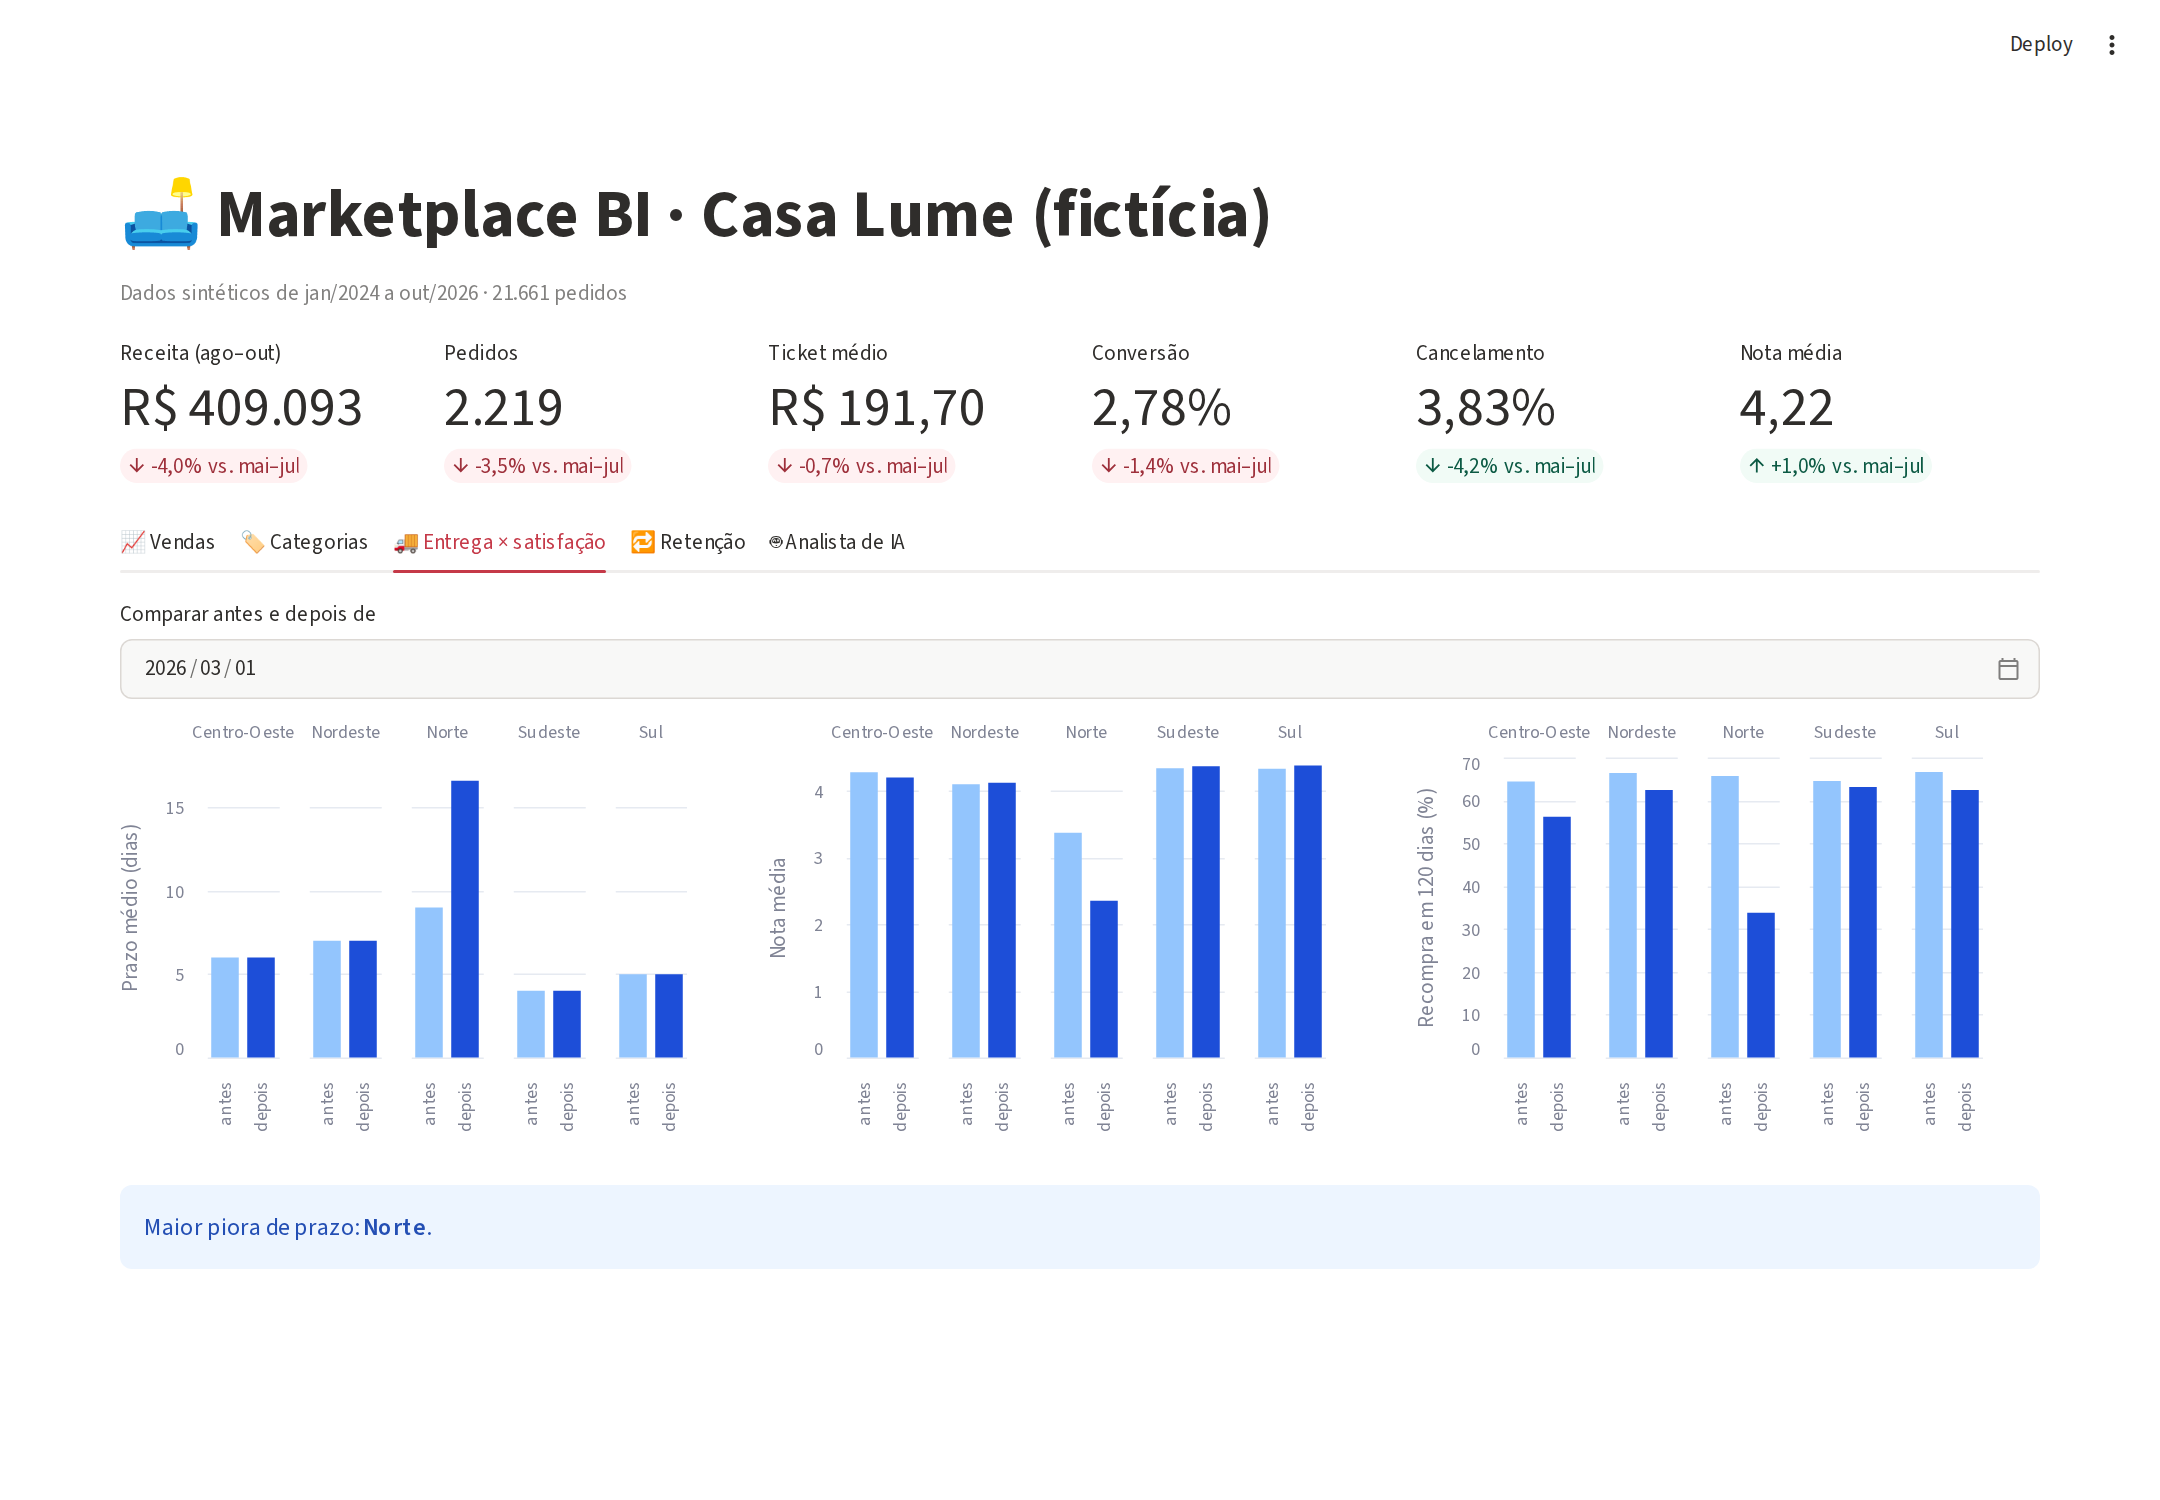
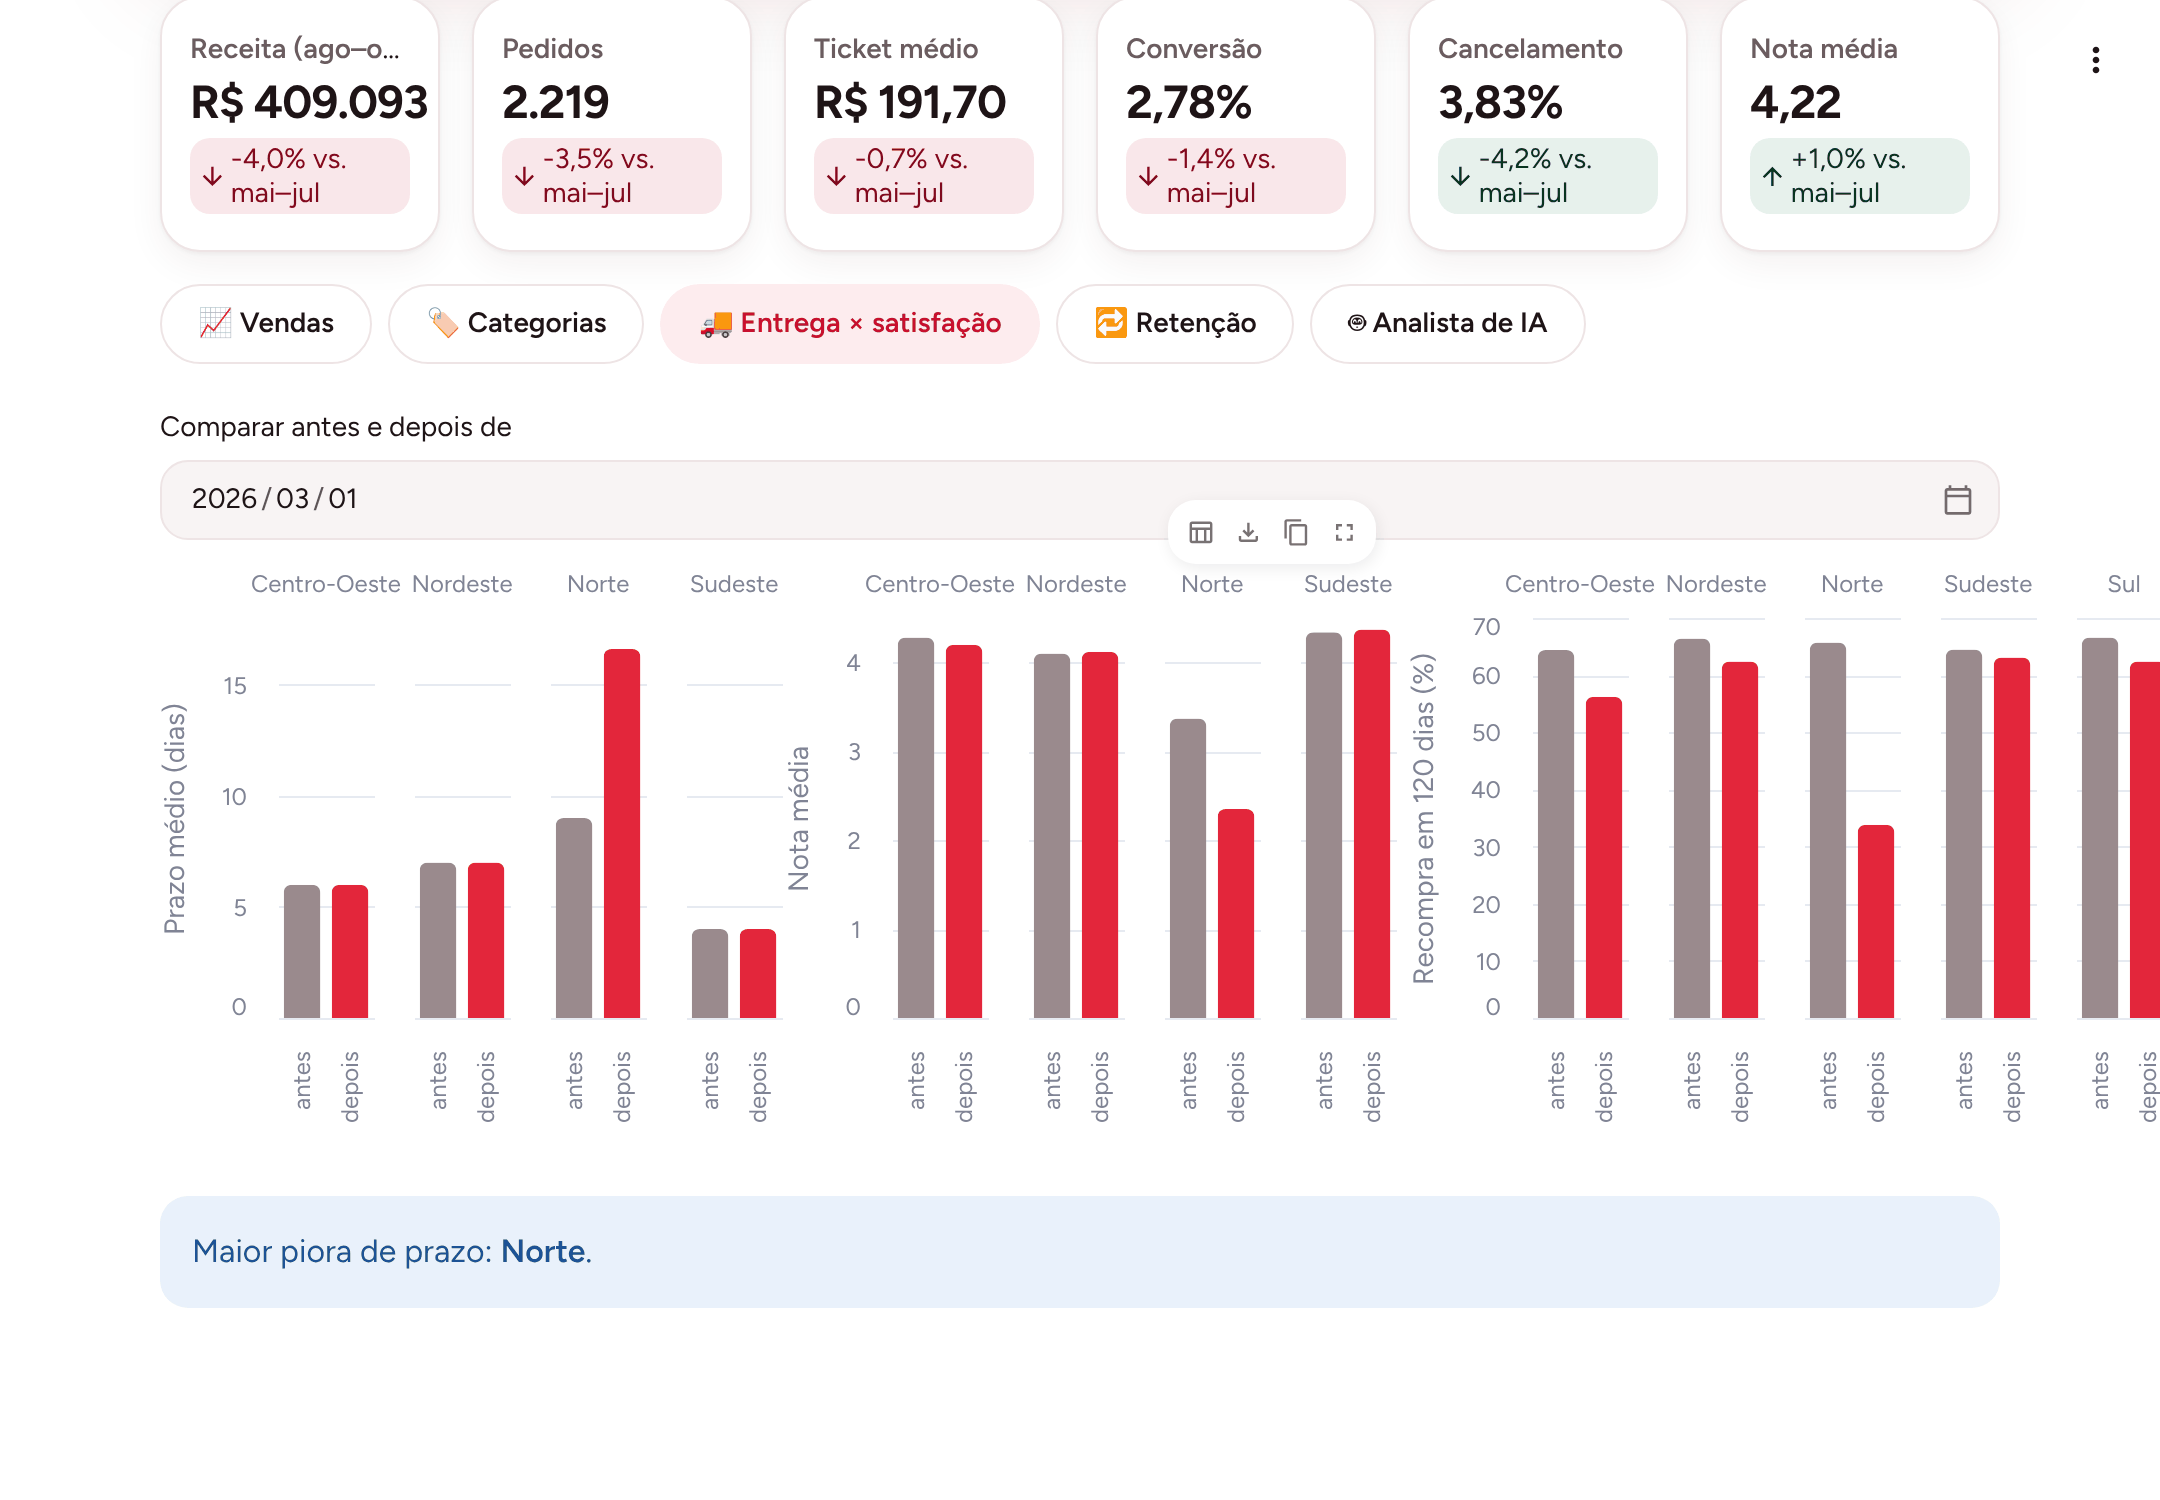
Dashboard com a identidade visual do portfólio
- .streamlit/config.toml: tema claro e escuro (vermelho #E3263B, Figtree e Bricolage Grotesque) e paletas de gráfico validadas para daltonismo
- app/tema.py: cabeçalho, cards de KPI, abas em pílula, selos de status com ícone e cores dos gráficos pela paleta
- capturas do README refeitas; streamlit>=1.51 (seções [theme.light] e [theme.dark])

Claude-Session: https://claude.ai/code/session_01WR8CaPDQRav6xXD6FyLt9e

diff --git a/app/tema.py b/app/tema.py
@@ -1,0 +1,142 @@
+"""Identidade visual compartilhada pelos dashboards: a mesma do portfólio (henriquecm02.github.io).
+
+Cores, fontes e raios ficam em `.streamlit/config.toml` (modo claro e escuro). Este módulo só acrescenta o que o tema
+do Streamlit não cobre: o cabeçalho, os cards de KPI, as abas em pílula e cores para traços com cor explícita.
+Copiado de forma idêntica em cada repositório, como o agentcore.py.
+"""
+from __future__ import annotations
+
+import html
+
+import streamlit as st
+
+# Mesma ordem das paletas do config.toml (validadas para daltonismo). Cor segue a entidade, nunca a posição.
+PALETA = {"claro": ["#E3263B", "#2a78d6", "#eda100", "#1baf7a", "#6250d6"],
+          "escuro": ["#E8455A", "#3987e5", "#c98500", "#199e70", "#9085e9"]}
+NEUTRO = {"claro": "#9A8A8D", "escuro": "#8C7E80"}  # série de referência: histórico, linha de base
+# Escala sequencial (magnitude): um só tom, do claro ao escuro (no modo escuro, do escuro ao claro).
+SEQUENCIAL = {"claro": ["#FDECEE", "#F6B3BC", "#EC6A7B", "#E3263B", "#B3132A", "#7A0A1B"],
+              "escuro": ["#3A1218", "#7A0A1B", "#B3132A", "#E3263B", "#EC6A7B", "#F6B3BC"]}
+STATUS = {"ok": ("#157347", "✅"), "atencao": ("#8A5200", "⚠"), "critico": ("#C8102E", "⛔")}
+
+
+def modo() -> str:
+    try:
+        return "escuro" if st.context.theme.type == "dark" else "claro"
+    except Exception:  # noqa: BLE001 - fora de uma sessão (testes, scripts) não há tema
+        return "claro"
+
+
+def cor(i: int) -> str:
+    """Cor categórica do slot i (0 = vermelho da marca)."""
+    return PALETA[modo()][i]
+
+
+def cores(n: int) -> list[str]:
+    """As n primeiras cores categóricas, na ordem fixa. Mais de 5 séries: agrupar em "Outros" ou separar."""
+    if n > len(PALETA["claro"]):
+        raise ValueError("Mais de 5 séries: agrupe em 'Outros' ou use pequenos múltiplos.")
+    return PALETA[modo()][:n]
+
+
+def sequencial() -> list[str]:
+    return SEQUENCIAL[modo()]
+
+
+def neutro() -> str:
+    return NEUTRO[modo()]
+
+
+def texto_secundario() -> str:
+    """Cor de rótulos de valor dentro de gráficos: texto, nunca a cor da série."""
+    return "#B9ACAE" if modo() == "escuro" else "#6B5C5F"
+
+
+def rgba(hex_: str, alpha: float) -> str:
+    h = hex_.lstrip("#")
+    return f"rgba({int(h[0:2], 16)},{int(h[2:4], 16)},{int(h[4:6], 16)},{alpha})"
+
+
+def selo(nivel: str, texto: str) -> str:
+    """Selo de status em HTML: sempre ícone + texto, nunca só a cor."""
+    c, icone = STATUS[nivel]
+    return (f'<span class="hc-selo" style="--c:{c}">{icone} {html.escape(texto)}</span>')
+
+
+_CSS = """
+<style>
+.block-container, [data-testid="stMainBlockContainer"] { padding-top: 4.2rem; max-width: 1280px; }
+[data-testid="stHeader"] { background: transparent; }
+h1, h2, h3 { letter-spacing: -0.01em; }
+.hc-hero { position: relative; overflow: hidden; border-radius: 28px; padding: 30px 34px 28px;
+  margin: 0 0 18px;
+  color: #fff; background: radial-gradient(120% 140% at 100% 0%, #F0566A 0%, rgba(240,86,106,0) 55%),
+  linear-gradient(135deg, #E3263B 0%, #B3132A 62%, #7A0A1B 100%);
+  box-shadow: 0 20px 60px rgba(122,10,27,.22); }
+.hc-hero::after { content: ""; position: absolute; right: -60px; top: -60px; width: 260px; height: 260px;
+  border-radius: 50%;
+  border: 38px solid rgba(255,255,255,.07); }
+.hc-hero .k { font: 700 12px/1 var(--hc-mono, "JetBrains Mono", monospace); letter-spacing: .08em;
+  text-transform: uppercase;
+  opacity: .85; margin-bottom: 10px; }
+.hc-hero h1 { color: #fff !important; font-size: clamp(1.7rem, 3.2vw, 2.5rem); line-height: 1.1;
+  margin: 0 0 10px; padding: 0; }
+.hc-hero p { color: rgba(255,255,255,.9); max-width: 780px; margin: 0; font-size: 1rem; line-height: 1.55; }
+.hc-hero .chips { display: flex; flex-wrap: wrap; gap: 8px; margin-top: 16px; }
+.hc-hero .chips span { background: rgba(255,255,255,.14); border: 1px solid rgba(255,255,255,.22);
+  border-radius: 999px;
+  padding: 5px 12px; font-size: .82rem; font-weight: 600; }
+[data-testid="stMetric"] { background: var(--hc-surface); border: 1px solid var(--hc-line);
+  border-radius: 20px;
+  padding: 16px 18px; min-height: 118px;
+  box-shadow: 0 1px 2px rgba(60,10,20,.05), 0 6px 18px rgba(60,10,20,.06); }
+[data-testid="stMetricLabel"] p { font-weight: 600; color: var(--hc-muted); }
+[data-testid="stMetricValue"] { font-weight: 700; letter-spacing: -0.02em; }
+[data-testid="stMetricDelta"] { max-width: 100%; border-radius: 10px !important; height: auto !important; }
+[data-testid="stMetricDelta"] p { white-space: normal !important; overflow: visible !important; }
+[role="tablist"] { gap: 8px; flex-wrap: wrap; border: 0 !important; box-shadow: none !important;
+  padding-bottom: 4px; }
+[role="tablist"]::after, [role="tablist"]::before { display: none !important; }
+[data-baseweb="tab-highlight"], [data-baseweb="tab-border"], .react-aria-SelectionIndicator { display: none
+  !important; }
+[role="tab"] { border-radius: 999px !important; padding: 8px 18px !important;
+  border: 1px solid var(--hc-line) !important;
+  background: var(--hc-surface) !important; height: auto !important;
+  transition: background .15s, border-color .15s; }
+[role="tab"]:hover { border-color: var(--hc-red) !important; }
+[role="tab"] p { font-weight: 600; margin: 0; }
+[role="tab"][aria-selected="true"] { background: var(--hc-soft) !important;
+  border-color: transparent !important; }
+[role="tab"][aria-selected="true"] p { color: var(--hc-red); }
+[data-testid="stVerticalBlockBorderWrapper"]:has(> div > [data-testid="stVerticalBlock"]) { border-radius:
+  20px; }
+[data-testid="stAlert"] { border-radius: 16px; }
+.hc-selo { display: inline-flex; align-items: center; gap: 6px; padding: 3px 10px; border-radius: 999px;
+  font-weight: 600;
+  font-size: .85rem; color: var(--c); background: color-mix(in srgb, var(--c) 12%, transparent); }
+.hc-nota { color: var(--hc-muted); font-size: .9rem; }
+</style>
+"""
+_TOKENS = {
+    "claro": "--hc-surface:#FFFFFF;--hc-line:#EEE4E5;--hc-muted:#6B5C5F;--hc-soft:#FDECEE;--hc-red:#C8102E;",
+    "escuro": "--hc-surface:#1F191A;--hc-line:#3A2F31;--hc-muted:#B9ACAE;--hc-soft:#3A1218;--hc-red:#F08E9B;",
+}
+
+
+def aplicar_tema(titulo: str, subtitulo: str, kicker: str = "", chips: list[str] | None = None) -> None:
+    """Injeta o CSS do portfólio e desenha o cabeçalho. Chamar logo depois de st.set_page_config."""
+    st.html(f"<style>:root{{{_TOKENS[modo()]}}}</style>" + _CSS)
+    chips_html = "".join(f"<span>{html.escape(c)}</span>" for c in chips or [])
+    st.html(f'<div class="hc-hero">{f"<div class=k>{html.escape(kicker)}</div>" if kicker else ""}'
+            f"<h1>{html.escape(titulo)}</h1><p>{html.escape(subtitulo)}</p>"
+            f'{f"<div class=chips>{chips_html}</div>" if chips_html else ""}</div>')
+
+
+def estilo_plotly(fig, altura: int | None = None, **layout):
+    """Acabamento comum dos gráficos Plotly: legenda no topo, hover unificado, margens enxutas."""
+    fig.update_layout(margin={"l": 8, "r": 8, "t": 36, "b": 8},
+                      legend={"orientation": "h", "yanchor": "bottom", "y": 1.02, "x": 0, "title_text": ""},
+                      hoverlabel={"font_family": "Figtree"}, **({"height": altura} if altura else {}), **layout)
+    fig.update_xaxes(showgrid=False)
+    fig.update_yaxes(zeroline=False)
+    return fig

diff --git a/app/streamlit_app.py b/app/streamlit_app.py
@@ -11,6 +11,7 @@ from pathlib import Path
 import altair as alt
 import pandas as pd
 import streamlit as st
+import tema
 from dotenv import load_dotenv
 
 from mbi import analytics as A
@@ -36,11 +37,19 @@ if not DB.exists():
     st.stop()
 d = A.load(str(DB))
 
-st.title("🛋 Marketplace BI · Casa Lume (fictícia)")
 MESES = "jan fev mar abr mai jun jul ago set out nov dez".split()
-st.caption(f"Dados sintéticos de jan/2024 a {MESES[d.last_day.month - 1]}/{d.last_day.year} · "
-           f"{len(d.orders):,} pedidos".replace(",", "."))
+tema.aplicar_tema(
+    "Marketplace BI · Casa Lume (fictícia)",
+    "KPIs, tendências de categoria, entrega × satisfação, coortes, sazonalidade e previsão, com um analista de IA que "
+    "responde usando ferramentas de análise e SQL somente leitura.",
+    kicker="BI com analista de IA",
+    chips=[f"Dados sintéticos de jan/2024 a {MESES[d.last_day.month - 1]}/{d.last_day.year}",
+           f"{len(d.orders):,} pedidos".replace(",", "."), "Padrões plantados com gabarito"])
 
+# Seis KPIs lado a lado: valor menor para não cortar "R$ 401.234".
+st.html("<style>[data-testid='stMetricValue']{font-size:1.45rem}"
+        "[data-testid='stMetricValue'] div{overflow:visible;text-overflow:clip}"
+        "[data-testid='stMetric']{padding:14px 14px}</style>")
 cmp = A.compare_periods(d, "2026-05-01", "2026-07-31", "2026-08-01", "2026-10-31")
 b, v = cmp["periodo_b"], cmp["variacao_pct_b_sobre_a"]
 cols = st.columns(6)
@@ -62,15 +71,22 @@ with tab_vis:
     m["mes"] = m["data"].dt.to_timestamp()
     f = A.forecast(d)
     fc = pd.DataFrame({"mes": pd.to_datetime(list(f["previsao_receita"])), "valor_total": list(f["previsao_receita"].values())})
-    chart = alt.layer(
-        alt.Chart(m).mark_line(point=True, color="#2563eb").encode(
-            x=alt.X("mes:T", title=None, axis=alt.Axis(format="%m/%y")), y=alt.Y("valor_total:Q", title="Receita (R$)",
-                                                      axis=alt.Axis(labelExpr="replace(format(datum.value, ',.0f'), /,/g, '.')"))),
-        alt.Chart(fc).mark_line(point=True, strokeDash=[5, 4], color="#9ca3af").encode(x="mes:T", y="valor_total:Q"),
+    serie = pd.concat([m[["mes", "valor_total"]].assign(serie="Receita realizada"), fc.assign(serie="Previsão")])
+    chart = alt.Chart(serie).mark_line(point=alt.OverlayMarkDef(size=50, filled=True), strokeWidth=2).encode(
+        x=alt.X("mes:T", title=None, axis=alt.Axis(format="%m/%y")),
+        y=alt.Y("valor_total:Q", title="Receita (R$)",
+                axis=alt.Axis(labelExpr="replace(format(datum.value, ',.0f'), /,/g, '.')")),
+        color=alt.Color("serie:N", title=None, scale=alt.Scale(domain=["Receita realizada", "Previsão"],
+                                                               range=[tema.cor(0), tema.neutro()]),
+                        legend=alt.Legend(orient="top")),
+        strokeDash=alt.StrokeDash("serie:N", legend=None, scale=alt.Scale(domain=["Receita realizada", "Previsão"],
+                                                                         range=[[1, 0], [5, 4]])),
+        tooltip=[alt.Tooltip("serie:N", title=""), alt.Tooltip("mes:T", format="%m/%Y", title="mês"),
+                 alt.Tooltip("valor_total:Q", format=",.0f", title="R$")],
     ).properties(height=320)
     st.altair_chart(chart, use_container_width=True)
     s = A.seasonality(d)
-    st.caption(f"Linha tracejada: previsão sazonal com tendência (erro médio no backtest de 6 meses: "
+    st.caption(f"Linha cinza tracejada: previsão sazonal com tendência (erro médio no backtest de 6 meses: "
                f"{f['mape_backtest_pct']:.1f}%). Pico sazonal em {s['pico']}, vale em {s['vale']}.".replace(".", ",", 1))
 
 with tab_cat:
@@ -78,11 +94,12 @@ with tab_cat:
     df = pd.DataFrame(ct["categorias"])
     c1, c2 = st.columns([3, 2])
     with c1:
-        st.altair_chart(alt.Chart(df).mark_bar().encode(
+        st.altair_chart(alt.Chart(df).mark_bar(cornerRadiusEnd=4).encode(
             x=alt.X("tendencia_participacao_mensal_pct:Q", title="Tendência da participação na receita (% ao mês)"),
             y=alt.Y("categoria:N", sort="x", title=None),
             color=alt.Color("classificacao:N", scale=alt.Scale(domain=["queda", "estavel", "alta"],
-                                                                 range=["#dc2626", "#9ca3af", "#16a34a"]), title=None),
+                                                                 range=[tema.cor(0), tema.neutro(), tema.cor(1)]),
+                            title=None, legend=alt.Legend(orient="top")),
             tooltip=["categoria", "tendencia_participacao_mensal_pct", "estatistica_t", "tendencia_receita_mensal_pct"],
         ).properties(height=260), use_container_width=True)
     with c2:
@@ -92,7 +109,7 @@ with tab_cat:
                     f"{ct['limite_pct']:.0f}% ao mês **e** for estatisticamente distinguível de zero (|t| ≥ 2).")
         st.dataframe(df[["categoria", "classificacao", "tendencia_participacao_mensal_pct", "estatistica_t"]],
                      hide_index=True, use_container_width=True)
-    st.markdown("##### Produtos com maior queda (últimos 3 meses vs. 3 anteriores)")
+    st.subheader("Produtos com maior queda (últimos 3 meses vs. 3 anteriores)")
     st.dataframe(A.product_trends(d)["produtos_em_queda"], hide_index=True, use_container_width=True)
 
 with tab_reg:
@@ -103,9 +120,9 @@ with tab_reg:
     c1, c2, c3 = st.columns(3)
     for col, metric, title in [(c1, "prazo_medio_dias", "Prazo médio (dias)"), (c2, "nota_media", "Nota média"),
                                (c3, "recompra_120d_pct", "Recompra em 120 dias (%)")]:
-        col.altair_chart(alt.Chart(df).mark_bar().encode(
+        col.altair_chart(alt.Chart(df).mark_bar(cornerRadiusEnd=4).encode(
             x=alt.X("fase:N", title=None, sort=["antes", "depois"]), y=alt.Y(f"{metric}:Q", title=title),
-            color=alt.Color("fase:N", legend=None, scale=alt.Scale(range=["#93c5fd", "#1d4ed8"])),
+            color=alt.Color("fase:N", legend=None, scale=alt.Scale(domain=["antes", "depois"], range=[tema.neutro(), tema.cor(0)])),
             column=alt.Column("regiao:N", title=None)).properties(width=48, height=200))
     st.info(f"Maior piora de prazo: **{rd['maior_piora_de_prazo']}**.")
 
@@ -114,7 +131,7 @@ with tab_ret:
     df = pd.DataFrame(cr["coortes"]).T.reset_index(names="coorte").melt("coorte", var_name="mes", value_name="ret")
     st.altair_chart(alt.Chart(df).mark_rect().encode(
         x=alt.X("mes:O", title="Meses após a 1ª compra"), y=alt.Y("coorte:O", title="Coorte"),
-        color=alt.Color("ret:Q", title="% ativos", scale=alt.Scale(scheme="blues")),
+        color=alt.Color("ret:Q", title="% ativos", scale=alt.Scale(range=tema.sequencial())),
         tooltip=["coorte", "mes", "ret"]).properties(height=340), use_container_width=True)
     ch = A.churn(d)
     st.caption(f"Clientes sem comprar há mais de {ch['dias_sem_comprar']} dias: {ch['churn_pct']:.1f}% · "
